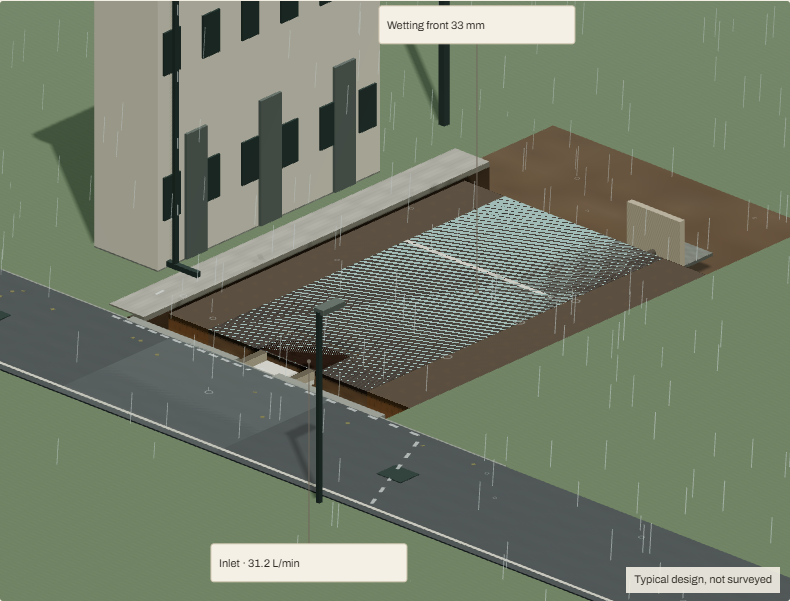
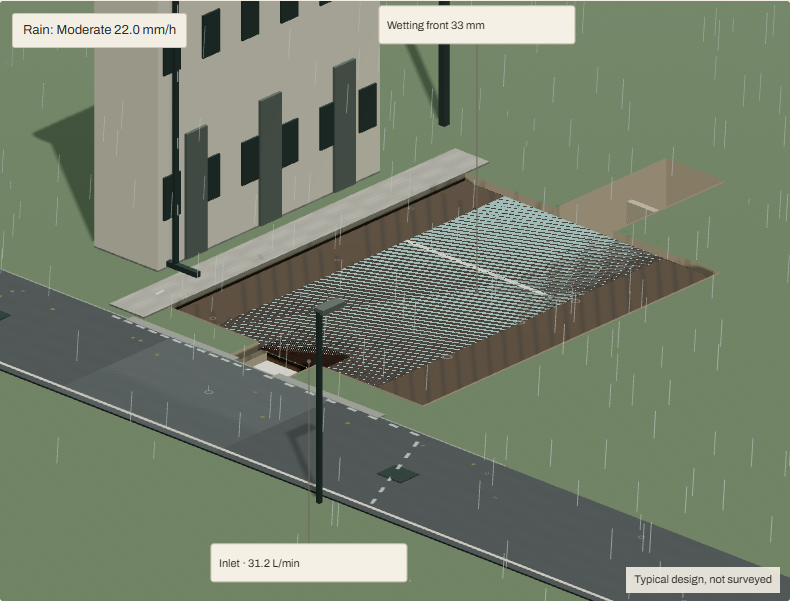
Join street surface to a fitted closed drain excavation

diff --git a/app/src/three/CatchmentContext.tsx b/app/src/three/CatchmentContext.tsx
@@ -4,9 +4,7 @@ import {
   Color,
   InstancedMesh,
   Object3D,
-  Shape,
-  Path,
-  ShapeGeometry,
+  DoubleSide,
   type Texture,
 } from 'three';
 import { drainDesign } from '../simulation/physics/design';
@@ -16,6 +14,7 @@ import { WaterMaterial } from './WaterEffects';
 import FlowTrace from './FlowTrace';
 import { contextAtlas, sceneColours, surfaceMaps, variation, type Surface } from './sceneMaterials';
 import { surfaceWetness } from './sceneMetrics';
+import { streetGeometry } from './streetGeometry';
 
 function SurfaceBox({
   name,
@@ -113,45 +112,32 @@ function AtlasBox({
   );
 }
 function Terrain({
-  length,
-  width,
-  y,
+  physics,
 }: {
-  length: number;
-  width: number;
-  y: number;
+  physics: ModelPhysics;
 }) {
-  const geometry = useMemo(() => {
-    const s = new Shape();
-    s.moveTo(-70, -70);
-    s.lineTo(70, -70);
-    s.lineTo(70, 70);
-    s.lineTo(-70, 70);
-    s.closePath();
-    const hole = new Path();
-    hole.moveTo(-length / 2 - 0.65, -width / 2 - 0.2);
-    hole.lineTo(-length / 2 - 0.65, width / 2 + 0.2);
-    hole.lineTo(length / 2 + 2, width / 2 + 0.2);
-    hole.lineTo(length / 2 + 2, -width / 2 - 0.2);
-    hole.closePath();
-    s.holes.push(hole);
-    const g = new ShapeGeometry(s);
-    g.rotateX(-Math.PI / 2);
-    return g;
-  }, [length, width]);
+  const geometry=useMemo(()=>streetGeometry(drainDesign(physics.config),physics.config.kind==='inlet'),[physics.config]);
   const maps = useMemo(() => surfaceMaps('grass'), []);
   useEffect(
     () => () => {
-      geometry.dispose();
+      geometry.top.dispose();geometry.walls.dispose();geometry.floor.dispose();
       maps.map.dispose();
       maps.normalMap.dispose();
     },
     [geometry, maps],
   );
   return (
-    <mesh name="surrounding-terrain" geometry={geometry} position={[0, y, 0]} receiveShadow>
-      <meshStandardMaterial {...maps} roughness={0.94} />
-    </mesh>
+    <group name="street-ground">
+      <mesh name="surrounding-terrain" geometry={geometry.top} receiveShadow>
+        <meshStandardMaterial {...maps} roughness={0.94} polygonOffset polygonOffsetFactor={2} polygonOffsetUnits={2} />
+      </mesh>
+      <mesh name="excavation-walls" geometry={geometry.walls} receiveShadow>
+        <meshStandardMaterial color="#b8a78e" roughness={1} side={DoubleSide} />
+      </mesh>
+      <mesh name="excavation-floor" geometry={geometry.floor} receiveShadow>
+        <meshStandardMaterial color="#b8a78e" roughness={1} side={DoubleSide} />
+      </mesh>
+    </group>
   );
 }
 export default function CatchmentContext({
@@ -204,21 +190,7 @@ export default function CatchmentContext({
       name="catchment-context"
       userData={{ pavedArea: c.pavedArea, roofArea: c.roofArea, gutterSlope: c.gutterSlope }}
     >
-      <SurfaceBox
-        name="surrounding-ground"
-        position={[0, ground - 0.12, 0]}
-        size={[140, 0.24, 140]}
-        kind="soil"
-        wet={wet}
-      />
-      <Terrain length={d.length} width={d.topWidth} y={c.kerbHeight - 0.02} />
-      <SurfaceBox
-        name="excavation-plinth"
-        position={[0, ground + 0.005, 0]}
-        size={[d.length + 1, 0.08, d.topWidth + 1]}
-        kind="soil"
-        wet={wet}
-      />
+      <Terrain physics={physics} />
       <SurfaceBox
         name="road-foundation"
         position={[roadX, (ground + c.kerbHeight - 0.12) / 2, 0]}

diff --git a/app/src/three/streetGeometry.ts b/app/src/three/streetGeometry.ts
@@ -1,0 +1,28 @@
+import { BufferGeometry, Float32BufferAttribute, Path, Shape, ShapeGeometry } from 'three';
+import type { DrainDesign } from '../simulation/physics/design';
+
+/** Visual excavation follows the assembly shell, including its inlet and outfall corridor. */
+export function streetExcavation(d: DrainDesign, chamber: boolean) {
+  const l=d.length/2, w=chamber ? d.bedWidth/2+.1 : d.topWidth/2+.3;
+  const lip=chamber ? .1 : .8, out=2.25, neck=Math.min(w,.55);
+  return [[-l-lip,-neck],[-l,-neck],[-l,-w],[l,-w],[l,-neck],[l+out,-neck],
+    [l+out,neck],[l,neck],[l,w],[-l,w],[-l,neck],[-l-lip,neck]] as [number,number][];
+}
+export function streetGeometry(d: DrainDesign, chamber: boolean) {
+  const points=streetExcavation(d,chamber), surface=d.catchment.kerbHeight,
+    bottom=chamber ? -.11 : d.bottomY-d.nativeDepth-.01;
+  const shape=new Shape();
+  shape.moveTo(-70,-70);shape.lineTo(70,-70);shape.lineTo(70,70);shape.lineTo(-70,70);shape.closePath();
+  const hole=new Path(); points.forEach(([x,z],i)=>i?hole.lineTo(x,-z):hole.moveTo(x,-z));hole.closePath();
+  shape.holes.push(hole);
+  const top=new ShapeGeometry(shape);top.rotateX(-Math.PI/2);top.translate(0,surface,0);
+  const vertices:number[]=[];
+  for(let i=0;i<points.length;i++) {
+    const [x,z]=points[i],[a,b]=points[(i+1)%points.length];
+    vertices.push(x,surface,z, a,bottom,b, a,surface,b, x,surface,z, x,bottom,z, a,bottom,b);
+  }
+  const walls=new BufferGeometry();walls.setAttribute('position',new Float32BufferAttribute(vertices,3));walls.computeVertexNormals();
+  const floorShape=new Shape();points.forEach(([x,z],i)=>i?floorShape.lineTo(x,-z):floorShape.moveTo(x,-z));floorShape.closePath();
+  const floor=new ShapeGeometry(floorShape);floor.rotateX(-Math.PI/2);floor.translate(0,bottom,0);
+  return {top,walls,floor,bottom,surface};
+}

diff --git a/app/src/three/streetGeometry.test.ts b/app/src/three/streetGeometry.test.ts
@@ -1,0 +1,18 @@
+import { expect, test } from 'vitest';
+import { DoubleSide, Mesh, MeshBasicMaterial, Raycaster, Vector3 } from 'three';
+import { streetGeometry, streetExcavation } from './streetGeometry';
+import { featureConfig } from '../simulation/physics/config';
+import { drainDesign } from '../simulation/physics/design';
+for(const id of ['S1','R1']) test('continuous street and closed excavation '+id,()=>{
+  const config=featureConfig(id), d=drainDesign(config), g=streetGeometry(d,config.kind==='inlet');
+  const material=new MeshBasicMaterial({side:DoubleSide}), meshes=[g.top,g.floor].map(x=>new Mesh(x,material));
+  meshes.forEach(m=>m.updateMatrixWorld());
+  // Ten orbital sample directions, with radial samples covering road, verge and pit.
+  for(let orbit=0;orbit<10;orbit++) for(let radius=0;radius<15;radius+=.17) {
+    const a=orbit*Math.PI/5, ray=new Raycaster(new Vector3(Math.cos(a)*radius,10,Math.sin(a)*radius),new Vector3(0,-1,0));
+    expect(ray.intersectObjects(meshes).length).toBeGreaterThan(0);
+  }
+  const boundary=streetExcavation(d,config.kind==='inlet');
+  expect(g.walls.getAttribute('position').count).toBe(boundary.length*6);
+  Object.values(g).forEach(v=>{if(typeof v!=='number')v.dispose();});material.dispose();
+});

diff --git a/app/src/three/SectionCaps.tsx b/app/src/three/SectionCaps.tsx
@@ -92,7 +92,7 @@ export default function SectionCaps({
         material.map.colorSpace = THREE.SRGBColorSpace;
         material.map.wrapS = material.map.wrapT = THREE.RepeatWrapping;
         material.normalMap = null;
-        material.map.repeat.set(100, 100);
+        material.map.repeat.set(12, 12);
         material.map.needsUpdate = true;
       }
       material.side = THREE.DoubleSide;

diff --git a/docs/ROUND9C_PROGRESS.md b/docs/ROUND9C_PROGRESS.md
@@ -20,3 +20,7 @@ Excavation/ground continuity is being handled with Stage 0B because both use the
 ## Stage 0C — visible opening rain
 Fresh feature calculations open at 40% of rain duration, playing unless reduced motion is requested. Feature playback loops the full event including recovery; explicit seeking pauses. Saved replay clocks remain preserved. Rain status and four event markers are visible. TypeScript and the focused browser check passed.
 
+
+## Stage 0B — ground continuity, first two items
+Replaced the separate deep ground slab and oversized rectangular hole with a continuous surface and fitted excavation including inlet and outfall corridors, closed walls and a floor. Soil only appears within the pit; paving retains a supporting base. Two numerical geometry checks cover 10 radial directions and 89 distances each; both S1/R1 section browser checks pass again. The later surroundings/perspective work remains pending.
+
